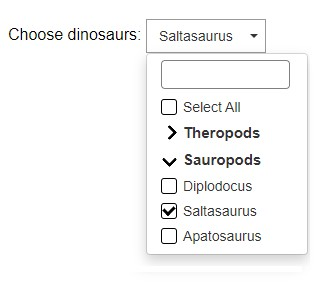
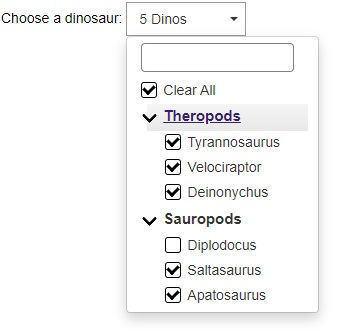
v0.63 : Two levels: one click on the group selects / unselects children

Changed region(s): [[0.0, 0.0, 0.9937, 0.9645]]

diff --git a/vanillaSelectBox.js b/vanillaSelectBox.js
@@ -2,6 +2,7 @@
 Copyright (C) Philippe Meyer 2019-2021
 Distributed under the MIT License 
 
+vanillaSelectBox : v0.63 : Two levels: one click on the group selects / unselects children
 vanillaSelectBox : v0.62 : New option: maxOptionWidth set a maximum width for each option for narrow menus
 vanillaSelectBox : v0.61 : New option: maxSelect, set a maximum to the selectable options in a multiple choice menu
 vanillaSelectBox : v0.60 : Two levels: optgroups are now used to show two level dropdowns 
@@ -494,21 +495,39 @@ function vanillaSelectBox(domSelector, options) {
 
             if (!e.target.hasAttribute("data-value")) {
                 if(e.target.classList.contains("grouped-option")){
+                    let isCheckCommand = e.offsetX > 25;
                     let oldClass,newClass;
-                    if(e.target.classList.contains("open")){
-                        oldClass = "open"
-                        newClass = "closed"
-                    }else{
-                        oldClass = "closed"
-                        newClass = "open"   
+                    console.log(e)
+                    if(isCheckCommand){ // check or uncheck children
+                        if(e.target.classList.contains("closed")){
+                            oldClass = "closed"
+                            newClass = "open"   
+                            e.target.classList.remove(oldClass);
+                            e.target.classList.add(newClass);
+                            let theChildren = self.drop.querySelectorAll("[data-parent='"+e.target.id+"']");
+                            theChildren.forEach(function(x){
+                                x.classList.remove(oldClass);
+                                x.classList.add(newClass);
+                            })
+                        }
+                        self.checkUncheckFromParent(e.target.id);
+                    }else{ //open or close
+                        if(e.target.classList.contains("open")){
+                            oldClass = "open"
+                            newClass = "closed"
+                        }else{
+                            oldClass = "closed"
+                            newClass = "open"   
+                        }
+                        e.target.classList.remove(oldClass);
+                        e.target.classList.add(newClass);
+                        let theChildren = self.drop.querySelectorAll("[data-parent='"+e.target.id+"']");
+                        theChildren.forEach(function(x){
+                            x.classList.remove(oldClass);
+                            x.classList.add(newClass);
+                        })
                     }
-                    e.target.classList.remove(oldClass);
-                    e.target.classList.add(newClass);
-                    let theChildren = self.drop.querySelectorAll("[data-parent='"+e.target.id+"']");
-                    theChildren.forEach(function(x){
-                        x.classList.remove(oldClass);
-                        x.classList.add(newClass);
-                    })
+
                     return;
                 }
                 else{
@@ -683,6 +702,38 @@ vanillaSelectBox.prototype.checkSelectMax= function (nrActives) {
     }
 
 }
+
+vanillaSelectBox.prototype.checkUncheckFromParent = function (parentId) {
+    let self = this;
+    if (!self.isMultiple) return;
+    let childrenElements = Array.prototype.slice.call(self.listElements).filter(function(el){
+         return el.hasAttribute("data-parent") && el.getAttribute('data-parent') == parentId;
+    });
+    let nrChecked = 0;
+    let nrCheckable = childrenElements.length ; 
+    if(nrCheckable == 0) return;
+    childrenElements.forEach(function(el){
+        if(el.classList.contains('active')) nrChecked++;
+    });
+    if(nrChecked === nrCheckable || nrChecked === 0){
+        //check all or uncheckAll : just do the opposite
+        childrenElements.forEach(function(el){
+            var event = document.createEvent('HTMLEvents');
+            event.initEvent('click', true, false);
+            el.dispatchEvent(event);
+        });
+    }else{
+        //check all
+        childrenElements.forEach(function(el){
+            if(!el.classList.contains('active')){
+                var event = document.createEvent('HTMLEvents');
+                event.initEvent('click', true, false);
+                el.dispatchEvent(event);
+            }
+        });
+    }
+}
+
 
 vanillaSelectBox.prototype.checkUncheckAll = function () {
     let self = this;

diff --git a/indexDebug.html b/indexDebug.html
@@ -87,8 +87,8 @@
 <script src="./vanillaSelectBox.js"></script>
 <script>
 	
-let selectDinos = new vanillaSelectBox("#dino-select",{ "maxSelect":2,"maxHeight": 200,"search": true,translations: { "all": "All", "items": "Dinos" } });
-let selectCars = new vanillaSelectBox("#demoShort",{"maxOptionWidth":70, "maxHeight": 200,"search": true,translations: { "all": "All", "items": "Cars" } });
+let selectDinos = new vanillaSelectBox("#dino-select",{"maxHeight": 300,"search": true,translations: { "all": "All", "items": "Dinos" } });
+let selectCars = new vanillaSelectBox("#demoShort",{"maxOptionWidth":110, "maxHeight": 200,"search": true,translations: { "all": "All", "items": "Cars" } });
 let selectCars2 = new vanillaSelectBox("#demoShort2",{ "maxHeight": 200,"search": true,translations: { "all": "All", "items": "Cars" } });
 
 </script>

diff --git a/vanillaSelectBox.css b/vanillaSelectBox.css
@@ -117,17 +117,6 @@ li.short{
 	white-space: nowrap;
 }
 
-/*
-.vsb-menu li{
-	display: list-item;
-	font-size: 12px;
-	background-color: #fff;
-	min-height:1.4em;
-	padding: 0.2em;
-}
-*/
-
-
 .vsb-menu li {
 	font-size: 14px;
 	background-color: #fff;
@@ -190,9 +179,15 @@ li.short{
 }
 
 .vsb-menu .multi li.grouped-option {
-	font-weight: bold;
 	font-size: 15px;
 	padding-left: 5px;
+}
+
+
+.vsb-menu .multi li.grouped-option:hover {
+	font-weight: bold;
+	text-decoration: underline;
+	color:rgb(52, 31, 112);
 }
 
 .vsb-menu .multi li:not(.grouped-option)::before{
@@ -237,3 +232,9 @@ li.short{
 	border-right: 4px solid transparent;
 	border-left: 4px solid transparent;
 }
+
+
+li[data-parent]{
+	padding-left: 50px !important;
+}
+

diff --git a/README.md b/README.md
@@ -1,5 +1,5 @@
 
-# vanillaSelectBox v 0.62
+# vanillaSelectBox v0.63 
 
 ### A nice select/multiselect ui with no dependency and two levels support thru optgroups
 
@@ -10,6 +10,8 @@
 I think one improvement would be to integrate the css as style tags because there are still css interferences between the document and vanillaSelectBox
 
 What do you think ?
+
+last change : Two levels: one click on the group selects / unselects children
 
 
 ![screen shot](https://raw.githubusercontent.com/PhilippeMarcMeyer/vanillaSelectBox/master/vanillaSelectBox.png)
@@ -65,6 +67,8 @@ selectBox = new vanillaSelectBox("#brandsOne", { "maxHeight": 200, "search": tru
 selectBox.disableItems(['Lamborghini','Land Rover']);
 ```
 #### History : 
+
+v0.63 : Two levels: one click on the group selects / unselects children
 
 v0.62 : New option: maxOptionWidth set a maximum width for each option for narrow menus (ellipsis troncature)
 
